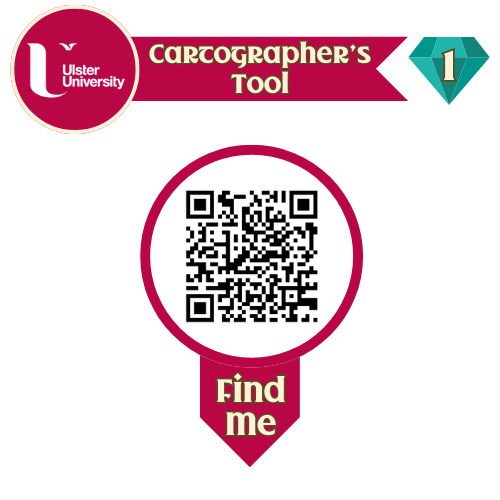
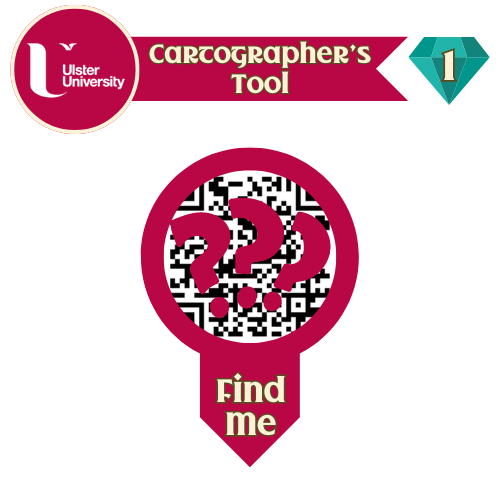
quest2 image update

Changed region(s): [[0.3, 0.27, 0.75, 0.72]]

diff --git a/public/explorer-2/index.html b/public/explorer-2/index.html
@@ -96,16 +96,16 @@ This quest will lead you to the <em><strong>Car Parks office</strong></em>, a cr
 <p>Whether you&rsquo;re a seasoned driver or new to campus, mastering the art of parking here is a valuable skill. Embrace the journey, trust your instincts, and make your way to the Car Parks office. Your adventure continues, and with each step, you become more adept at navigating your new academic home.</p>
 <p>Ready to take on the challenge? Let’s go!
 <div style="text-align: center;">
-    <img src="../images/campus-quest-start.png" alt="Responsive image" style="width: 60%; height: auto; display: inline-block;">
+    <img src="../quest-2-find-me.png" alt="Responsive image" style="width: 60%; height: auto; display: inline-block;">
 </div>
+<div style="text-align: center"><a href="../explorer-2-quest" class="btn">Demo-QR-Link</a>
+</div><br></br>
 </div>
 <div style="text-align: center">
 <em><a href="../explorers-trail" class="styled-link">Return to the Explorer's Trail</a></em></div></p>
 <hr>
 <p><a href="../lost"><img loading="lazy" src="../images/lost-icon.png#center" alt="image here"  />
 </a></p>
-<p><div style="text-align: center"><a href="../explorer-2-quest" class="btn">ENTER</a>
-</div></p>
 
 
   </div>

diff --git a/content/explorer-2.md b/content/explorer-2.md
@@ -14,12 +14,10 @@ This quest will lead you to the ***Car Parks office***, a crucial waypoint for a
 Whether you're a seasoned driver or new to campus, mastering the art of parking here is a valuable skill. Embrace the journey, trust your instincts, and make your way to the Car Parks office. Your adventure continues, and with each step, you become more adept at navigating your new academic home.
 
 Ready to take on the challenge? Let’s go!
-{{< image src="../images/campus-quest-start.png" alt="Responsive image" width="60%" height="auto" >}}
+{{< image src="../quest-2-find-me.png" alt="Responsive image" width="60%" height="auto" >}}
+{{< div-center >}}{{< button url="../explorer-2-quest" text="Demo-QR-Link" >}}{{< div-end >}}{{< break-start >}}{{< break-end >}}
 {{< div-end >}}
 {{< div-center >}}
 *{{< styled-link href="../explorers-trail" >}}Return to the Explorer's Trail{{< /styled-link >}}*{{< div-end >}}
 ___
 [![image here](../images/lost-icon.png#center)](../lost)
-
-
-{{< div-center >}}{{< button url="../explorer-2-quest" text="ENTER" >}}{{< div-end >}}
